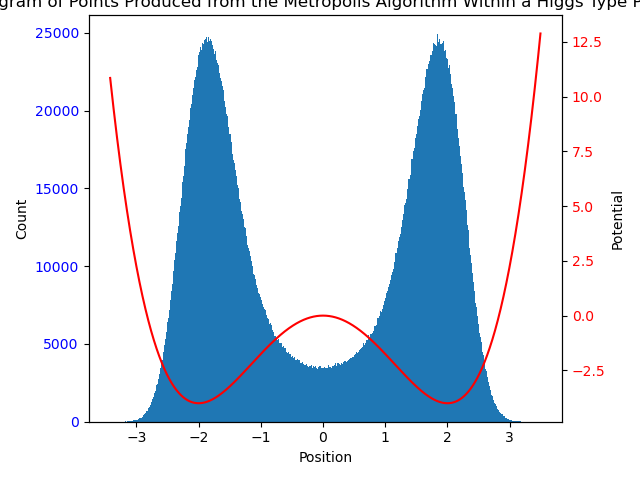
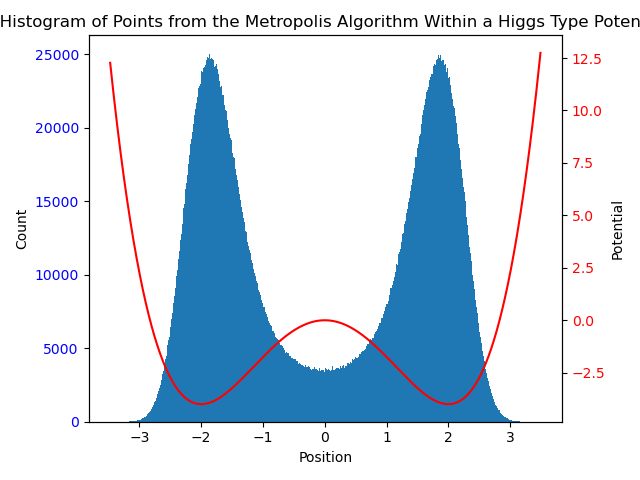
finish dis ting

diff --git a/Tests.py b/Tests.py
@@ -12,10 +12,10 @@ mass = 1   # setting mass to be 1
 
 ti = 0     # start time
 tf = 4     # finish time
-div_t = 2  # division of time points (i.e whole numbs, half, third etc))
+div_t = 1  # division of time points (i.e whole numbs, half, third etc))
 
 epsilon = 1.3  # change in delta_xs size from spatial lattice spacing
-N_cor = 20        # number of paths to be skipped path set (due to correlation)
+N_cor = 5        # number of paths to be skipped path set (due to correlation)
 N_CF = 10 ** 4    # number of updates
 
 bins = 100     # number of bins for histogram
@@ -80,14 +80,9 @@ def actn(x, y, j, k, potential):
     kp = (k-1) % N
     kn = (k+1) % N
 
-    Set = (1,-1)
-    A = np.random.choice(Set)
-    B = np.random.choice(Set)
-    C = np.random.choice(Set)
-
-    r = A * np.sqrt(x[j] ** 2 + y[k] ** 2)
-    rp = B * np.sqrt(x[jp] ** 2 + y[kp] ** 2)
-    rn = C * np.sqrt(x[jn] ** 2 + y[kn] ** 2)
+    r = np.sqrt(x[j] ** 2 + y[k] ** 2)
+    rp = np.sqrt(x[jp] ** 2 + y[kp] ** 2)
+    rn = np.sqrt(x[jn] ** 2 + y[kn] ** 2)
 
     KE = m * r * (r - rp - rn) / (a ** 2)
     PE = potential(x[j], y[k])
@@ -170,16 +165,24 @@ X = np.linspace(-4, 4, 100)
 Y = np.linspace(-4, 4, 100)
 X, Y = np.meshgrid(X, Y)
 Z = pdf(X, Y)
+#Z = pot(X, Y)
+
 
 fig, ax = plt.subplots(subplot_kw={"projection": "3d"})
+#ax = fig.add_subplot(111, projection='3d')
 hist, xedges, yedges = np.histogram2d(xpos, ypos, bins=bins)#, density=True)
 Norm = np.max(Z)/np.max(hist) * hist
 
+#print(x0, min(xedges), x1,  max(xedges))
+#print(y0, min(yedges), y1, max(yedges))
 
 x, y = np.meshgrid(xedges[:-1]+xedges[1:], yedges[:-1]+yedges[1:])
 x = x.flatten()/2
 y = y.flatten()/2
 z = np.zeros_like (x)
+
+#print(x0, min(x), x1, max(x))
+#print(y0, min(y), y1, max(y))
 
 
 dx = xedges [1] - xedges [0]
@@ -192,10 +195,33 @@ rgba = [cmap((k-min_height)/max_height) for k in dz]
 
 ax.bar3d(x, y, z, dx, dy, dz, color=rgba, zsort='average')
 ax.plot_surface(X, Y, Z, cmap=cm.coolwarm, alpha=0.3, linewidth=0, antialiased=False)
+#ax.zaxis.set_major_locator(LinearLocator(10))
 ax.zaxis.set_major_formatter('{x:.02f}')
 ax.tick_params(axis='z', labelcolor='red')
 #plt.title("X vs. Y Amplitudes for ____ Data")
 plt.xlabel("My X data source")
 plt.ylabel("My Y data source")
 dir, file = os.path.split(__file__)
+plt.show()
+
+fig = plt.figure(figsize=(6, 6))
+# ax = fig.add_subplot(131, title='imshow: square bins')
+# plt.imshow(H, interpolation='nearest', origin='lower',
+#       extent=[xedges[0], xedges[-1], yedges[0], yedges[-1]])
+
+ax = fig.add_subplot(title='Histogram Contour')
+#        ,aspect='equal')
+X, Y = np.meshgrid(xedges, yedges)
+ax.pcolormesh(X, Y, H)
+# plt.plot(xs, - (r**2 - xs**2) ** (1/2), 'k-')
+# plt.plot(xs, (r**2 - xs**2) ** (1/2), 'k-')
+
+# ax = fig.add_subplot(133, title='NonUniformImage: interpolated',
+#        aspect='equal', xlim=xedges[[0, -1]], ylim=yedges[[0, -1]])
+im = NonUniformImage(ax, interpolation='bilinear')
+# xcenters = (xedges[:-1] + xedges[1:]) / 2
+# ycenters = (yedges[:-1] + yedges[1:]) / 2
+# im.set_data(xcenters, ycenters, H)
+# ax.add_image(im)
+
 plt.show()

diff --git a/Extension.py b/Extension.py
@@ -17,7 +17,7 @@ tf = 4     # finish time
 div_t = 1  # division of time points (i.e whole numbs, half, third etc))
 
 epsilon = 1.4  # change in delta_xs size from spatial lattice spacing
-bins = 200     # number of bins for histogram
+bins = 100     # number of bins for histogram
 
 N_cor = 3        # number of paths to be skipped path set (due to correlation)
 N_CF = 10 ** 5      # number of updates
@@ -57,8 +57,8 @@ def pot2(x, y):
 def pdf(x, y):
     """prob density function"""
     r = np.sqrt(x ** 2 + y ** 2)
-    prob = np.exp(- r ** 2) /np.pi
-    #prob = np.exp( - r ** 2)/(np.pi ** (1/2))
+    #prob = np.exp(- r ** 2) /np.pi
+    prob = np.exp( - r ** 2)/(np.pi ** (1/2))
     return prob
 
 V = pot1
@@ -190,16 +190,12 @@ X = np.linspace(x0, x1, 100)
 Y = np.linspace(y0, y1, 100)
 X, Y = np.meshgrid(X, Y)
 Z = pdf(X, Y)
-#Z = pot(X, Y)
 
 fig, ax = plt.subplots(subplot_kw={"projection": "3d"})
-#ax = fig.add_subplot(111, projection='3d')
 
 hist, xedges, yedges = np.histogram2d(xpos, ypos, bins=bins)#, density=True)
 Norm = np.max(Z)/np.max(hist) * hist
 
-#print(x0, min(xedges), x1,  max(xedges))
-#print(y0, min(yedges), y1, max(yedges))
 
 x, y = np.meshgrid(xedges[:-1]+xedges[1:], yedges[:-1]+yedges[1:])
 
@@ -207,8 +203,6 @@ x = x.flatten()/2
 y = y.flatten()/2
 z = np.zeros_like (x)
 
-#print(x0, min(x), x1, max(x))
-#print(y0, min(y), y1, max(y))
 
 dx = xedges [1] - xedges [0]
 dy = yedges [1] - yedges [0]
@@ -221,7 +215,6 @@ rgba = [cmap((k-min_height)/max_height) for k in dz]
 
 ax.bar3d(x, y, z, dx, dy, dz, color=rgba, zsort='average')
 ax.plot_surface(X, Y, Z, cmap=cm.coolwarm, alpha=0.3, linewidth=0, antialiased=False)
-#ax.zaxis.set_major_locator(LinearLocator(10))
 ax.zaxis.set_major_formatter('{x:.02f}')
 ax.tick_params(axis='z', labelcolor='red')
 
@@ -250,23 +243,12 @@ H, xedges, yedges = np.histogram2d(x, y, bins=bins)
 H = H.T
 
 fig = plt.figure(figsize=(6, 6))
-#ax = fig.add_subplot(131, title='imshow: square bins')
-#plt.imshow(H, interpolation='nearest', origin='lower',
- #       extent=[xedges[0], xedges[-1], yedges[0], yedges[-1]])
 
 ax = fig.add_subplot(title='Histogram Contour')
-#        ,aspect='equal')
 X, Y = np.meshgrid(xedges, yedges)
 ax.pcolormesh(X, Y, H)
-#plt.plot(xs, - (r**2 - xs**2) ** (1/2), 'k-')
-#plt.plot(xs, (r**2 - xs**2) ** (1/2), 'k-')
+# plt.plot(xs, - (r**2 - xs**2) ** (1/2), 'k-')
+# plt.plot(xs, (r**2 - xs**2) ** (1/2), 'k-')
 
-#ax = fig.add_subplot(133, title='NonUniformImage: interpolated',
-#        aspect='equal', xlim=xedges[[0, -1]], ylim=yedges[[0, -1]])
-im = NonUniformImage(ax, interpolation='bilinear')
-#xcenters = (xedges[:-1] + xedges[1:]) / 2
-#ycenters = (yedges[:-1] + yedges[1:]) / 2
-#im.set_data(xcenters, ycenters, H)
-#ax.add_image(im)
 plt.show()
 

diff --git a/FPI Main.py b/FPI Main.py
@@ -15,9 +15,9 @@ tf = 5  # finish time
 
 n_t = 6         # number of temporal points (i.e whole numbs, half, third etc))
 div_x = 5       # division of spacial points
-N = int(10**4)  # number of paths seeding metropolis
+N = int(10**8)  # number of paths seeding metropolis
 
-N_fin = int(10e+3)                    # finishing value on logarithmic scale
+N_fin = int(10e+6)                    # finishing value on logarithmic scale
 nbr = 20                             # number of graphs
 
 
@@ -49,21 +49,21 @@ def path_gen(x_0):
         path[i] = rdm.choice(x)
     return path
 
-def pot1(xs):
+def pot1(x):
     """simple harmonic oscillator potential"""
-    potential = 1/2 * xs**2
+    potential = 1/2 * x **2
     return potential
 
-def pot2(xs):
+def pot2(x):
     """a simple potential analogue for the Higgs potential"""
     a = 2
     b = 1
-    potential = - 0.5 * a ** 2 * xs ** 2 + 0.25 * b ** 2 * xs ** 4
+    potential = - 0.5 * a ** 2 * x ** 2 + 0.25 * b ** 2 * x ** 4
     return potential
 
-def pot3(xs):
+def pot3(x):
         """ a polynomial potential with a minimum and a stationary inflection point"""
-        V = 1 / 2 * x ** 2 + 1 / 4 * x ** 4 - 1 / 20 * x ** 5
+        V = - 8 * x ** 2 + 1/4 * x ** 4 - 1 / 20 * x ** 5
         return V
 
 def pot4(x):
@@ -83,9 +83,6 @@ def pot6(x):
     l = 1
     V = - 0.5 * u ** 2 * x ** 2 + 0.25 * l ** 2 * x ** 4
     return V
-
-pot = pot5
-
 
 def actn(path, potential):
     """calculating energies"""
@@ -143,6 +140,7 @@ def norm(array):
     else:
         return 0
 
+pot = pot5
 
 p_1 = path_gen(x[int(len(x)/2)])
 print(p_1)
@@ -156,11 +154,17 @@ G = prop(pot, N)
 Norm_G = norm(G)
 y1 = Norm_G
 
-# graph
-#plt.figure()
-#plt.plot(x, y1)
-#plt.show()
 
+
+'''
+plt.figure()
+plt.plot(x, y1)
+plt.show()
+xs = np.linspace(-5, 5, 100)
+ys = pot(xs)
+plt.plot(xs, ys)
+# plt.show()
+'''
 
 """repeating propagator for smaller samples"""
 # sample size
@@ -198,19 +202,20 @@ pdf_B = norm(pdf_A)
 y2 = pdf_B * (max(y1)/max(pdf_B))
 
 xs = np.linspace(-5, 5, 100)
-ys = pot(xs)
+y = pot(xs)
+
 
 # plotting graphs
 plt.subplot(1, 2, 2)
 plt.plot(x  , y1, label='FPI',       color='k')
 #plt.plot(x  , y2, label='PDF',       color='tab:orange')
-plt.plot(xs , ys, label='Potential', color='tab:blue')
-plt.legend()
-plt.grid()
+plt.plot(xs , y, label='Potential_2', color='tab:blue')
 plt.xlim(x0, x1)
 plt.xlabel('position')
-plt.ylim(-0.2, max(y1) + 0.1*max(y1))
+plt.ylim(0, max(y1) + 0.1*max(y1))
+plt.legend()
+plt.grid()
 
 dir, file = os.path.split(__file__)
-plt.savefig(dir + '\\Images\\hist-Brute_force.png')
+plt.savefig(dir + '\\Images\\hist-Brute_force_2.png')
 plt.show()

diff --git a/Extension 3.py b/Extension 3.py
@@ -137,7 +137,7 @@ def bin(G, number):
         G_binned.append(G_avg)
     return G_binned
 
-compute_G = compute_G1
+compute_G = compute_G2
 
 p_1 = [0 for t in range(nt)]
 p_2 = [np.random.uniform(-4, 4) for t in range(nt)]
@@ -252,19 +252,21 @@ plt.plot(ts, dE_analytic, linestyle='--', color='black')
 #plt.scatter(ts, dE_1, color='blue', alpha=0.2, label='Delta_E calculated from first G values')
 #plt.scatter(ts, dE_2, color='orange', label='Delta_E using binned G')
 #plt.scatter(ts, dE_3, color='orange', label='Delta_E')
-plt.errorbar(ts, dE_avg, yerr=dE_sd, color='green', fmt='o', capsize=4, elinewidth=1, label='Delta_E using bootstrap method')
+#plt.errorbar(ts, dE_avg, yerr=dE_sd, color='green', fmt='o', capsize=4, elinewidth=1, label='Delta_E using bootstrap method')
+plt.errorbar(ts, dE_avg, yerr=dE_sd, color='blue', fmt='o', capsize=4, elinewidth=1, label='Delta_E from bootstrap method using x^3')
+
 
 plt.xlabel('t')
 plt.ylabel('$\Delta$E(t)')
 plt.legend()
-plt.title('Numerically evaluated energy difference between the ground and first excited state')
+plt.title('Numerically Evaluated Energy Difference Between the Ground and First Excited State')
 #txt = ('The energy difference as a function of time calculated from the value of the propagator of paths produced by '
 #       'the Metropolis Algorithm within a Harmonic Oscillator Potential'
 #       )
 #plt.figtext(0.5, 0.2, txt, wrap=True, horizontalalignment='center', fontsize=12)
 
 dir, file = os.path.split(__file__)
-plt.savefig(dir + '\\Images\\delta_E.png')
+plt.savefig(dir + '\\Images\\delta_E_G2.png')
 plt.show()
 
 

diff --git a/Extension 2.py b/Extension 2.py
@@ -164,12 +164,12 @@ ax1.hist(pos, bins)
 ax1.tick_params(axis='y', labelcolor='blue')
 ax1.set_xlabel('Position')
 ax1.set_ylabel('Count', color='black')
+ax1.set_title('A Histogram of Points from the Metropolis Algorithm Within a Higgs Type Potential')
 ax2 = ax1.twinx()  # instantiate a second axes that shares the same x-axis
 ax2.plot(xs, V, color='red')
 ax2.tick_params(axis='y', labelcolor='red')
 ax2.set_ylabel('Potential', color='black')
 fig.tight_layout()  # otherwise the right y-label is slightly clipped
-plt.title('A Histogram of Points Produced from the Metropolis Algorithm Within a Higgs Type Potential ')
 #txt = ('A histogram of points produced by the Metropolis Algorithm
 #        within a Higgs type potential'
 #        )
